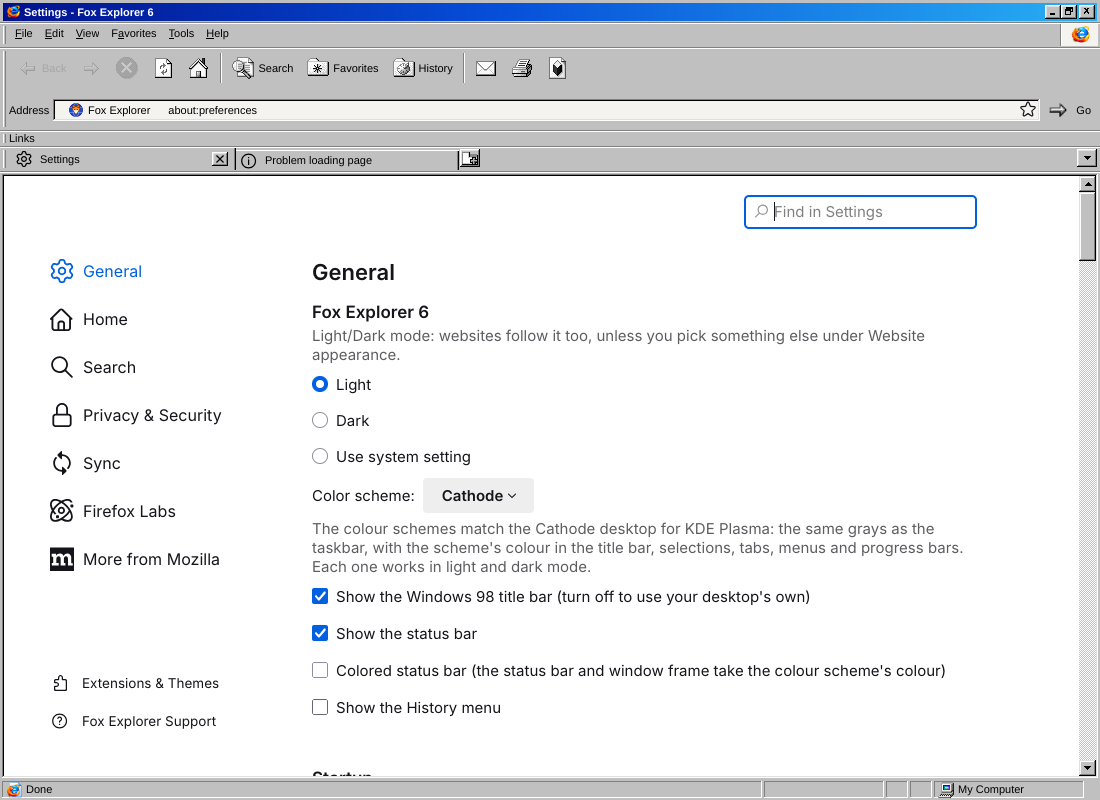
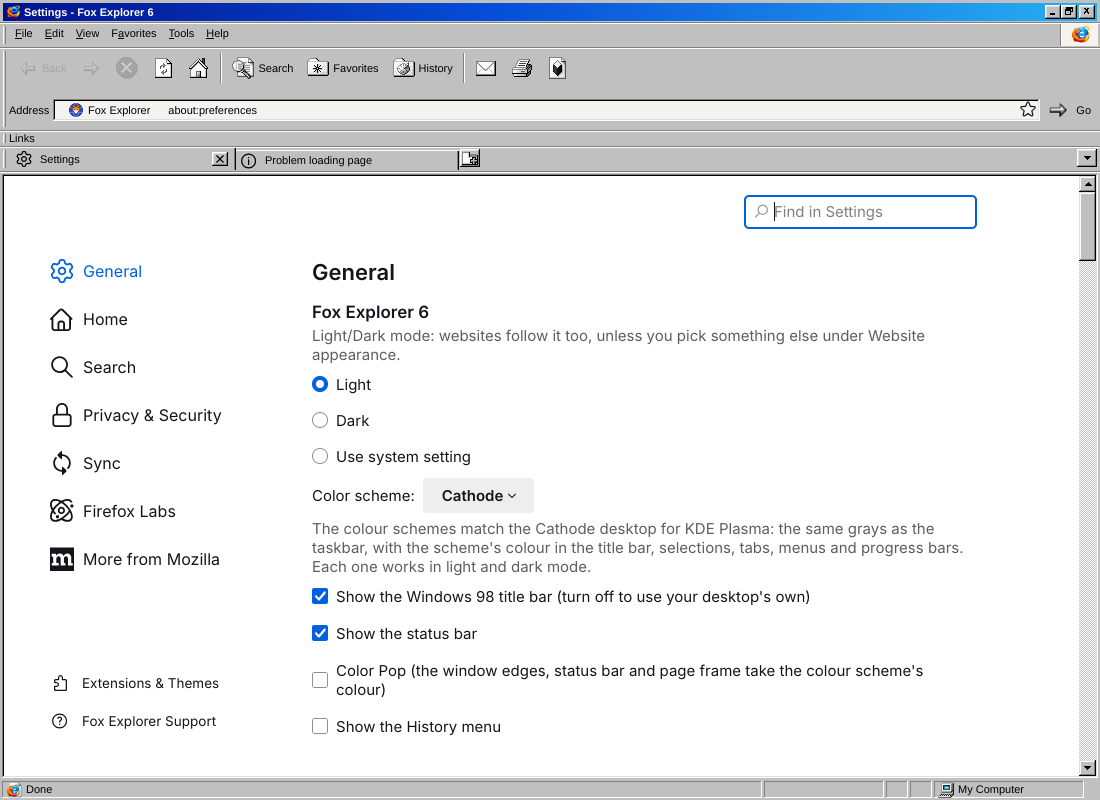
Color Pop: colour as the window edge and up to the page; square GTK-free windows
- Rename "Colored status bar" to Color Pop (foxexplorer.colorPop; the old
  setting carries over).
- Color Pop windowed: the scheme colour is the window's edge (no gray bevel
  outside it); the colour also fills the frame round the page right up to
  the page itself.
- The launcher gives Fox Explorer its own GTK theme, built from the user's
  current one (Chicago95, Breeze, ...) minus GTK's window frame, so there
  are no GTK rounded corners, shadow or beige bevel round the window on
  Wayland. A transparent 4px margin keeps the edges resizable.
  FE6_KEEP_GTK_FRAME=1 turns this off.

Claude-Session: https://claude.ai/code/session_01G5znAzAYtwxDX88ADjDDVX

Changed region(s): [[0.2782, 0.8125, 0.8655, 0.9375]]

diff --git a/theme/fe6/fe6.css b/theme/fe6/fe6.css
@@ -1038,32 +1038,39 @@ sidebar-main, #sidebar-main {
 #TabsToolbar :is(#tabs-newtab-button, #new-tab-button, .tabs-newtab-button) > .toolbarbutton-icon { filter: var(--fe-cold-filter); }
 #TabsToolbar :is(#tabs-newtab-button, #new-tab-button, .tabs-newtab-button):not([disabled]):is(:hover, [open]) > .toolbarbutton-icon { filter: none; }
 
-/* ===================================================================== Colored status bar
-   View › Colored Status Bar: the status bar and the window frame take the colour scheme's
-   colour (plain Cathode: Cathode blue). The bevels become light/dark tints of that colour, and
+/* ===================================================================== Color Pop
+   View › Color Pop: the window edges, the status bar and the frame round the page take the
+   colour scheme's colour (plain Cathode: Cathode blue). The bevels become light/dark tints of that colour, and
    the progress blocks turn white so they show up on it. */
-:root[fe6-colored-status] {
+:root[fe6-color-pop] {
   --fe-cs-hi: rgba(255, 255, 255, .45);
   --fe-cs-lo: rgba(0, 0, 0, .45);
 }
-:root[fe6-colored-status] #fe6-statusbar {
+:root[fe6-color-pop] #fe6-statusbar {
   background: var(--fe-accent, var(--fe-sel)) !important;
   border-top-color: var(--fe-accent, var(--fe-sel)) !important;
   color: #ffffff !important;
 }
-:root[fe6-colored-status] #fe6-statusbar label { color: #ffffff !important; }
-:root[fe6-colored-status] .fe6-pane { box-shadow: inset -1px -1px var(--fe-cs-hi), inset 1px 1px var(--fe-cs-lo) !important; }
-:root[fe6-colored-status] #fe6-status-progress { background: rgba(0, 0, 0, .25); }
-:root[fe6-colored-status] #fe6-status-meter {
+:root[fe6-color-pop] #fe6-statusbar label { color: #ffffff !important; }
+:root[fe6-color-pop] .fe6-pane { box-shadow: inset -1px -1px var(--fe-cs-hi), inset 1px 1px var(--fe-cs-lo) !important; }
+:root[fe6-color-pop] #fe6-status-progress { background: rgba(0, 0, 0, .25); }
+:root[fe6-color-pop] #fe6-status-meter {
   background: repeating-linear-gradient(to right, #ffffff 0 8px, transparent 8px 10px) !important;
 }
-:root[fe6-colored-status] #fe6-status-grip {
+:root[fe6-color-pop] #fe6-status-grip {
   background: linear-gradient(135deg,
     transparent 0 45%, var(--fe-cs-hi) 45% 50%, var(--fe-cs-lo) 50% 60%, transparent 60% 65%,
     var(--fe-cs-hi) 65% 70%, var(--fe-cs-lo) 70% 80%, transparent 80% 85%,
     var(--fe-cs-hi) 85% 90%, var(--fe-cs-lo) 90% 100%) !important;
 }
-/* and a frame of the colour runs all the way round the window (see "window frame" below) */
+/* and a frame of the colour runs all the way round the window (see "window frame" below),
+   right up to the edge of the page itself */
+:root[fe6-color-pop] #tabbrowser-tabbox { background: var(--fe-accent, var(--fe-sel)) !important; padding: 0 !important; }
+:root[fe6-color-pop] :is(#tabbrowser-tabpanels, #tabbrowser-tabbox > tabpanels) {
+  background: var(--fe-accent, var(--fe-sel)) !important;
+  padding: 0 !important;
+  box-shadow: none !important;
+}
 
 /* ===================================================================== window frame
    Firefox's Linux theme clips the window to the GTK title bar's rounded corners when it isn't
@@ -1085,16 +1092,16 @@ sidebar-main, #sidebar-main {
   padding: 4px !important;
 }
 
-/* Colored status bar: the frame round the whole window is the scheme colour. Windowed, it sits
-   inside the Win98 bevel; maximised, it's a 3px band round the edge of the screen. */
-:root[fe6-colored-status] body {
+/* Color Pop: the scheme colour is the window's edge, all the way round: 4px windowed, a 3px band
+   round the screen when maximised. */
+:root[fe6-color-pop] body {
   padding: 3px !important;
   box-shadow: inset 0 0 0 3px var(--fe-accent, var(--fe-sel)) !important;
 }
-:root[fe6-colored-status]:is([customtitlebar], [tabsintitlebar])[fe6-caption][sizemode="normal"] body {
-  padding: 5px !important;
-  box-shadow: var(--fe-raised), inset 0 0 0 5px var(--fe-accent, var(--fe-sel)) !important;
+:root[fe6-color-pop]:is([customtitlebar], [tabsintitlebar])[fe6-caption][sizemode="normal"] body {
+  padding: 4px !important;
+  box-shadow: inset 0 0 0 4px var(--fe-accent, var(--fe-sel)) !important;
 }
-:root[fe6-colored-status]:is([inFullscreen], [inDOMFullscreen]) body { padding: 0 !important; box-shadow: none !important; }
+:root[fe6-color-pop]:is([inFullscreen], [inDOMFullscreen]) body { padding: 0 !important; box-shadow: none !important; }
 /* the caption bar's own margin would leave a gray gap between it and the coloured frame */
-:root[fe6-colored-status] #fe6-caption { margin: 0 0 1px !important; }
+:root[fe6-color-pop] #fe6-caption { margin: 0 0 1px !important; }

diff --git a/README.md b/README.md
@@ -32,7 +32,8 @@ every modern setting work as normal. Only the look changes:
   windows. The colour schemes add their colour as accents: the title bar, a stripe on the selected
   tab, the open menu, the logo box, selections, hot-tracked buttons, links, progress bars and the
   sidebar header.
-- **Colored status bar** (optional): the status bar and the window frame take the scheme's colour.
+- **Color Pop** (optional): the window's edges, the status bar and the frame round the page take
+  the scheme's colour.
 - **Light/Dark mode:** every scheme comes in light and dark (Cathode's dark grays), or
   **Use System Setting** to follow your desktop. Websites that support dark mode follow it.
 - **Downloads:** while a file downloads, the Downloads button plays a Windows 98 style animation
@@ -41,11 +42,11 @@ every modern setting work as normal. Only the look changes:
 | Cathode Color | Cathode Teal, dark |
 |---|---|
 | ![Cathode Color](docs/screenshots/cathode-light.png) | ![Cathode Teal in dark mode](docs/screenshots/cathode-teal-dark.png) |
-| **Cathode Brick, colored status bar** | **Cathode, dark** |
-| ![Cathode Brick with the colored status bar](docs/screenshots/cathode-brick-colored.png) | ![Cathode in dark mode](docs/screenshots/dark-start.png) |
+| **Cathode Brick with Color Pop** | **Cathode, dark** |
+| ![Cathode Brick with Color Pop](docs/screenshots/cathode-brick-colored.png) | ![Cathode in dark mode](docs/screenshots/dark-start.png) |
 
 Pick a colour scheme from **View › Color Scheme**, light or dark from **View › Light/Dark Mode**,
-and turn on **View › Colored Status Bar** if you like. All three are also in **Tools › Internet
+and turn on **View › Color Pop** if you like. All three are also in **Tools › Internet
 Options** (the *Fox Explorer 6* section at the top of General). Fox Explorer doesn't follow your
 KDE colour scheme by itself: choose the matching one once and it stays.
 
@@ -142,7 +143,7 @@ All of these are in **about:config**, and most are also in **Tools › Internet 
 |---|---|---|
 | `foxexplorer.colorScheme` | `light` | Light/Dark mode: `light`, `dark` or `system` |
 | `foxexplorer.theme` | `classic` | Colour scheme: `classic` (Cathode) or `cathode`, `brick`, `pumpkin`, `wheat`, `ember`, `spruce`, `meadow`, `marine`, `teal`, `plum`, `eggplant`, `rose`, `storm`, `slate`, `spectrum`, `sunset` (`cathode` is Cathode Color) |
-| `foxexplorer.coloredStatusBar` | `false` | also **View › Colored Status Bar** |
+| `foxexplorer.colorPop` | `false` | also **View › Color Pop** |
 | `foxexplorer.classicTitlebar` | `true` | Win98 caption bar; `false` hands the title bar back to your desktop |
 | `foxexplorer.statusBar` | `true` | also **View › Status Bar** |
 | `foxexplorer.showHistoryMenu` | `false` | IE6 had no History menu; turn Firefox's back on |
@@ -167,6 +168,11 @@ Your own `userChrome.css` still works on top (`toolkit.legacyUserProfileCustomiz
   Wayland and on compositing X11 desktops. Where it isn't available, Fox Explorer falls back to
   your desktop's normal title bar automatically. On the Cathode desktop you can also untick
   *Show the Windows 98 title bar* in Internet Options to get KDE's own Cathode window decoration.
+- **Square windows:** with its own title bar, Firefox lets GTK draw a frame round the window from
+  your GTK theme (rounded corners and a shadow with Breeze, a beige bevel with Chicago95). The
+  `foxexplorer6` launcher gives Fox Explorer a small GTK theme of its own, made from your current
+  one minus that frame, so the window's edge is Fox Explorer's own Win98 (or Color Pop) frame.
+  Other apps aren't affected. Set `FE6_KEEP_GTK_FRAME=1` to keep the GTK frame.
 - The quick build uses Mozilla's official binary, so Mozilla's telemetry defaults apply. You can
   turn them off under **Internet Options › Privacy & Security**. Source builds made with unofficial
   branding don't send telemetry.
